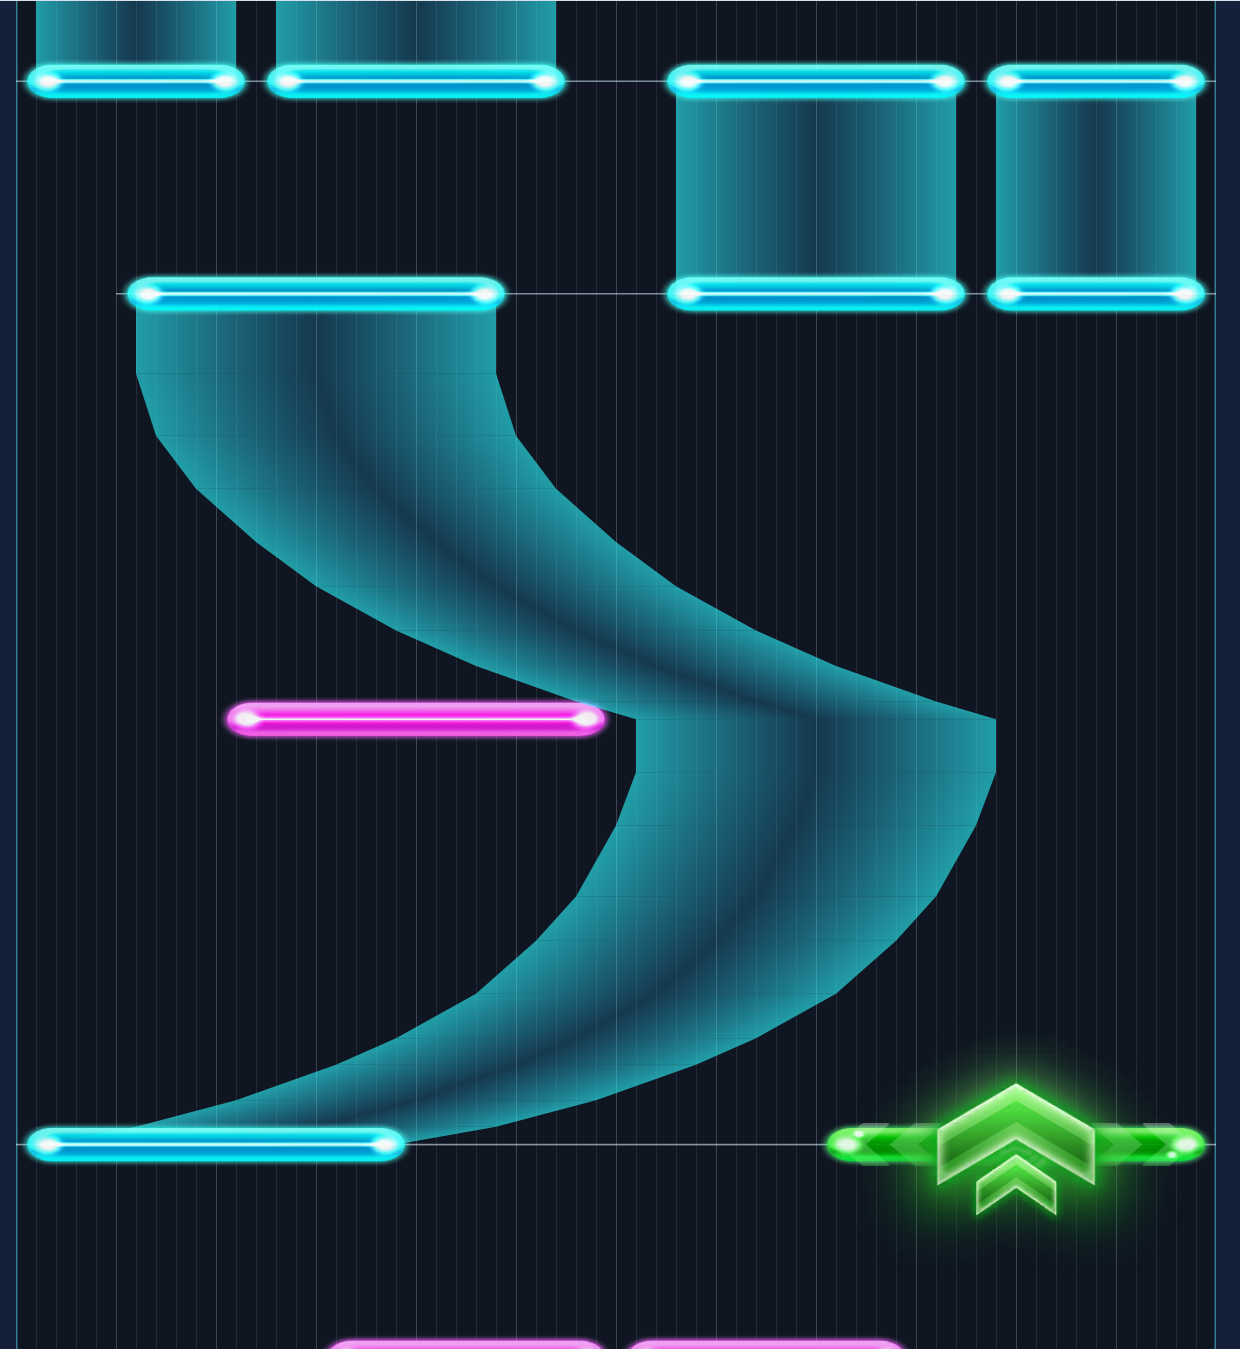
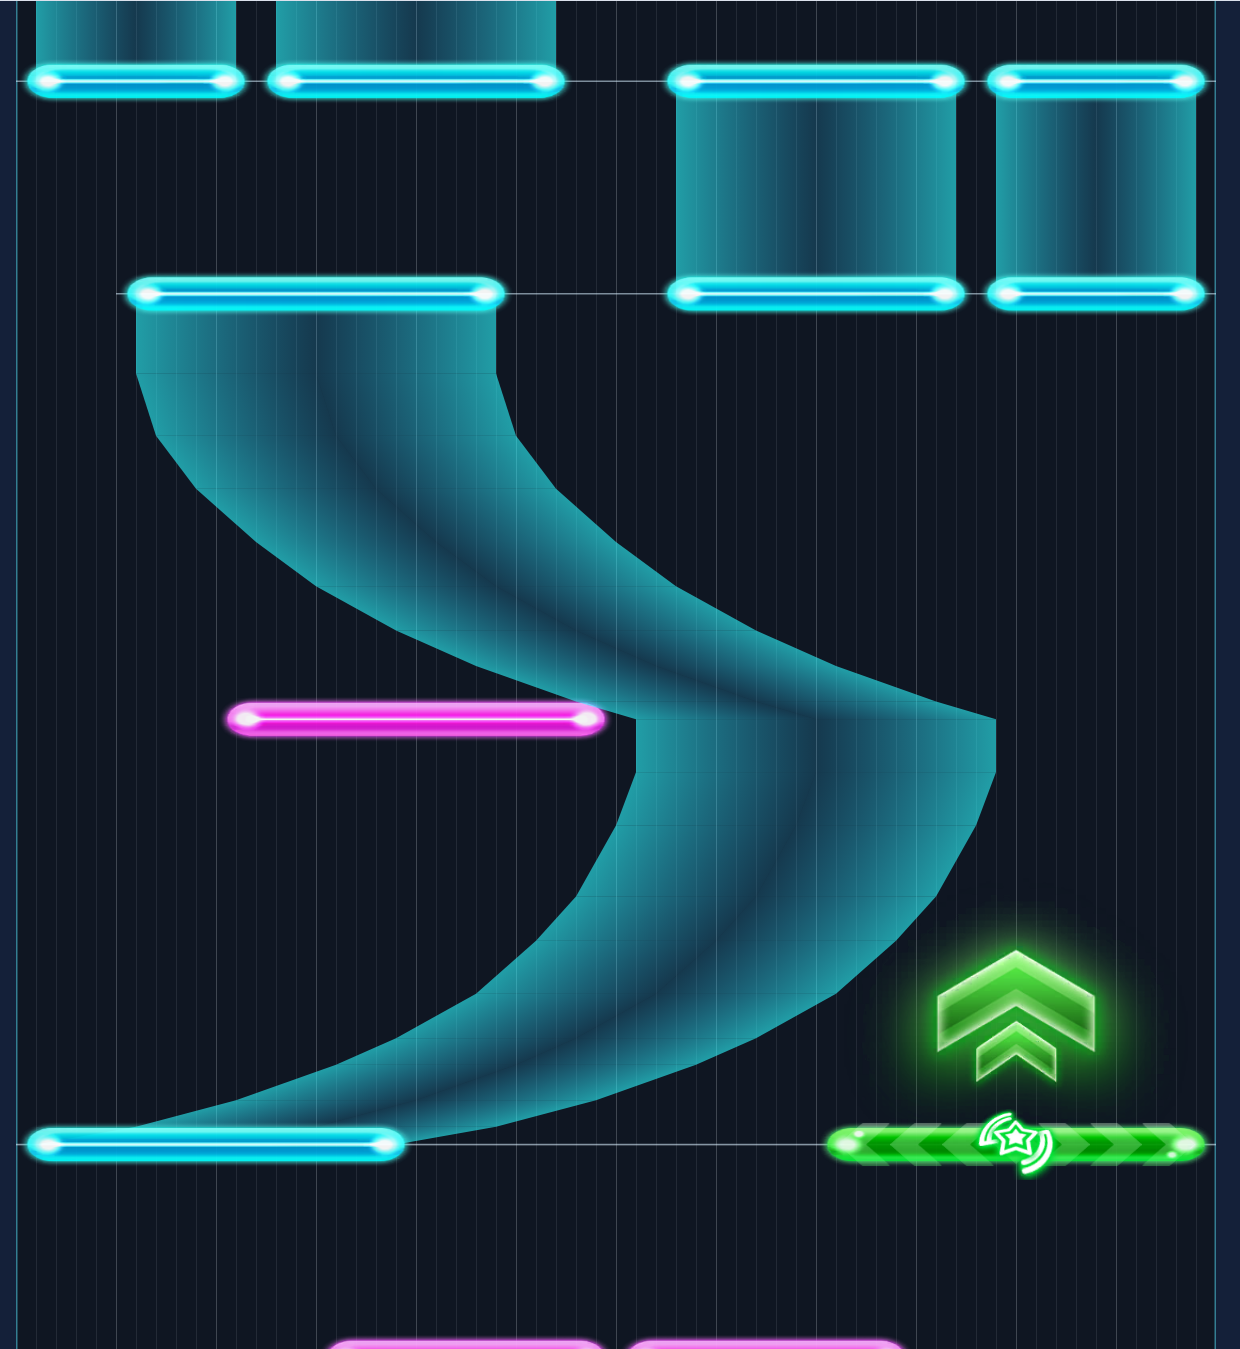
feat: Flick 的 Sign 抬高 1 世界单位
prefab 授权 localPosition 是 pos(0,1,0)，此前按 y=0 画，Sign 压在音符
本体上。原版 FlickSignView 让它在 0.9↔1.1 之间浮动，静态读谱取中值
即这个 1。

抬高沿音符平面的「上」——平面视图时间向上，故画布 y 减小。量值随
pxPerWorld 缩放，不随 pxPerSec 变化，与其他附加元素同口径。

浮动不实现（学姐裁定）。单测 +1（抬高量与不偏移的两侧），102 单测、
14 浏览器测试全绿。

Changed region(s): [[0.7048, 0.685, 0.9194, 0.934]]

diff --git a/src/slice.ts b/src/slice.ts
@@ -57,6 +57,13 @@ export const FLICK_SIGN = 'ui_sc2_ingame_flick_sign';
 /** prefab 授权值：Symbol 与 Sign 的 localScale。 */
 export const FLICK_ICON_SCALE = 0.6;
 export const FLICK_SIGN_SCALE = 0.8;
+/**
+ * Sign 的 localPosition.y（prefab 授权 `pos(0,1,0)`），世界单位。
+ *
+ * 原版 `FlickSignView` 让它在 0.9↔1.1 之间做周期 1s 的纵向余弦浮动，
+ * 静态读谱取中值 1 即可——这里就是那个基准位，不是浮动幅度。
+ */
+export const FLICK_SIGN_OFFSET_Y = 1;
 /** Arrow 的定尺法则：宽 = ISx×0.45、高 = 音符厚度×1.45（prefab m_Size.y=0.5、localScale.y=1.45）。 */
 export const ARROW_WIDTH = 0.45;
 export const ARROW_SIZE_Y = 0.5;
@@ -82,9 +89,10 @@ export interface FlickOverlay {
  * - `Arrow-Left/Right`：贴图**横向平铺**，单块宽 = ISx×0.45×0.75、高 = 0.45×1.45，
  *   两块各偏音符中心 ±宽/2（即左右并排铺满 90% 音符宽），右侧水平翻转。
  * - `Symbol`：`ui_sc2_ingame_notes_icon_flick` 原生尺寸 × 0.6，居中。
- * - `Sign`：`ui_sc2_ingame_flick_sign` 原生尺寸 × 0.8，居中。
+ * - `Sign`：`ui_sc2_ingame_flick_sign` 原生尺寸 × 0.8，居中并沿「上」抬 1 世界单位。
  *
- * 原版 Sign 另有 0.9↔1.1 的纵向余弦浮动（周期 1s）与 localPos.y=1 的抬高，静态读谱都不实现。
+ * 原版 Sign 另有 0.9↔1.1 的纵向余弦浮动（周期 1s），静态读谱取中值（= prefab 的 y=1），
+ * 不做浮动。
  * 尺寸一律按 `pxPerWorld` 换算而非时间轴比例——它们在世界空间里是固定尺寸的装饰，
  * 不该随时间缩放变化。
  */
@@ -105,16 +113,18 @@ export function flickOverlays(
     { kind: 'arrow', cx: cx - aw / 2, cy, w: aw, h: ah, flip: lay.mirror, tile },
     { kind: 'arrow', cx: cx + aw / 2, cy, w: aw, h: ah, flip: !lay.mirror, tile },
   ];
-  const box = (m: SpriteMeta | undefined, scale: number, kind: 'icon' | 'sign'): FlickOverlay | null =>
+  const box = (m: SpriteMeta | undefined, scale: number, kind: 'icon' | 'sign', dy = 0): FlickOverlay | null =>
     m ? {
-      kind, cx, cy,
+      kind, cx, cy: cy + dy,
       w: (m.rect[2] / m.ppu) * scale * k,
       h: (m.rect[3] / m.ppu) * scale * k,
       flip: false, tile: 0,
     } : null;
   const icon = box(meta.icon, FLICK_ICON_SCALE, 'icon');
   if (icon) out.push(icon);
-  const sign = box(meta.sign, FLICK_SIGN_SCALE, 'sign');
+  // Sign 沿音符平面的「上」抬 1 世界单位（prefab localPosition.y = 1）。平面视图时间向上，
+  // 故画布 y 减小。原版在 0.9↔1.1 之间浮动，静态取中值即 prefab 的 1。
+  const sign = box(meta.sign, FLICK_SIGN_SCALE, 'sign', -FLICK_SIGN_OFFSET_Y * k);
   if (sign) out.push(sign);
   return out;
 }

diff --git a/tests/slice.test.ts b/tests/slice.test.ts
@@ -2,11 +2,11 @@ import { describe, expect, it } from 'vitest';
 import { parseChart } from '../src/chart';
 import { defaultLayout } from '../src/view';
 import {
-  ARROW_WIDTH, HOLD_CENTER, HOLD_CENTER_ALPHA, HOLD_SIDE, HOLD_SIDE_ALPHA, LANE_WORLD, SPRITE_SCALE_X,
+  ARROW_WIDTH, FLICK_SIGN_OFFSET_Y, HOLD_CENTER, HOLD_CENTER_ALPHA, HOLD_SIDE, HOLD_SIDE_ALPHA, LANE_WORLD, SPRITE_SCALE_X,
   bandHalves, chainBandHalves, flickOverlays, laneX, noteDepthWorld, noteSpriteSize, noteWidthWorld,
   pxPerWorld, sliceCaps,
 } from '../src/slice';
-import { noteSpan } from '../src/view';
+import { noteSpan, timeY } from '../src/view';
 import { deflateRawSync } from 'node:zlib';
 
 const flags = (type: number, l: number, r: number, l2 = l, r2 = r) =>
@@ -303,6 +303,24 @@ describe('Flick 附加元素', () => {
       expect(box.flip).toBe(false);
       expect(box.tile).toBe(0);
     }
+  });
+
+  it('Sign 抬到音符上方 1 世界单位，Symbol 与箭头留在原位', () => {
+    const l = lay({ lanePx: 10 });
+    const n = flick(10, 21);
+    const o = flickOverlays(n, l, metas);
+    const k = pxPerWorld(l);
+    const bodyY = timeY(1.0, l);
+    // 平面视图时间向上 ⇒ 抬高 = 画布 y 减小。
+    expect(o[3].cy).toBeCloseTo(bodyY - FLICK_SIGN_OFFSET_Y * k, 9);
+    expect(o[3].cy).toBeLessThan(bodyY);
+    // 箭头与 Symbol 不吃这个偏移。
+    expect(o[0].cy).toBeCloseTo(bodyY, 9);
+    expect(o[1].cy).toBeCloseTo(bodyY, 9);
+    expect(o[2].cy).toBeCloseTo(bodyY, 9);
+    // 抬高量随 pxPerWorld 缩放，不随 pxPerSec 变化。
+    const wide = flickOverlays(n, lay({ lanePx: 20, pxPerSec: 900 }), metas);
+    expect(wide[3].cy).toBeCloseTo(timeY(1.0, lay({ lanePx: 20, pxPerSec: 900 })) - FLICK_SIGN_OFFSET_Y * pxPerWorld(lay({ lanePx: 20 })), 9);
   });
 
   it('非 Flick 类型不产出附加元素（调用方按 type===2 分流）', () => {

diff --git a/docs/evidence.md b/docs/evidence.md
@@ -50,7 +50,7 @@ GetNoteSize(width) = ((width − 6) × 0.2 + 1.15, 1.0)   // width = |l − r| +
 |---|---|---|---|
 | `Arrow-Left` / `Arrow-Right` | `ui_sc2_ingame_notes_texture_arrow` 52×50 | 宽 `ISx×0.45`、高 `0.45×1.45`（`ISx` = `GetNoteSize(width).x`） | 两块各偏中心 ±宽/2，右侧水平翻转 |
 | `Symbol` | `ui_sc2_ingame_notes_icon_flick` 120×90 | 原生尺寸 × 0.6 | 居中 |
-| `Sign` | `ui_sc2_ingame_flick_sign` 323×250 | 原生尺寸 × 0.8 | 居中 |
+| `Sign` | `ui_sc2_ingame_flick_sign` 323×250 | 原生尺寸 × 0.8 | 居中，并沿「上」抬 1 世界单位 |
 
 箭头贴图靠 **UV repeat 平铺**（`spriteMeshType` 已改 FullRect），重复次数 = 目标宽 / 单块宽，
 可为小数 —— 故最后一块按剩余宽度裁源图，不能取整。单块宽 = 贴图原生宽 × `scale.x`，
@@ -59,8 +59,8 @@ GetNoteSize(width) = ((width − 6) × 0.2 + 1.15, 1.0)   // width = |l − r| +
 尺寸一律按 `pxPerWorld` 换算，不随 `pxPerSec` 变化 —— 它们是世界空间里的固定尺寸装饰。
 `Arrow` 贴图 alpha 上限仅 82（一层很淡的光晕），`Symbol` 与 `Sign` 则是实心绿色。
 
-未实现的两项原版动态：`Sign` 的 0.9↔1.1 纵向余弦浮动（`FlickSignView`，周期 1s、全场同相、
-无相位种子）与 `localPos.y = 1` 的抬高。静态读谱下都不影响形状判读。
+未实现的原版动态：`Sign` 的 0.9↔1.1 纵向余弦浮动（`FlickSignView`，周期 1s、全场同相、
+无相位种子）。它只是让 Sign 在基准位上下荡，静态读谱取中值即 prefab 的 `y = 1`。
 
 ## Hold 宽带
 
